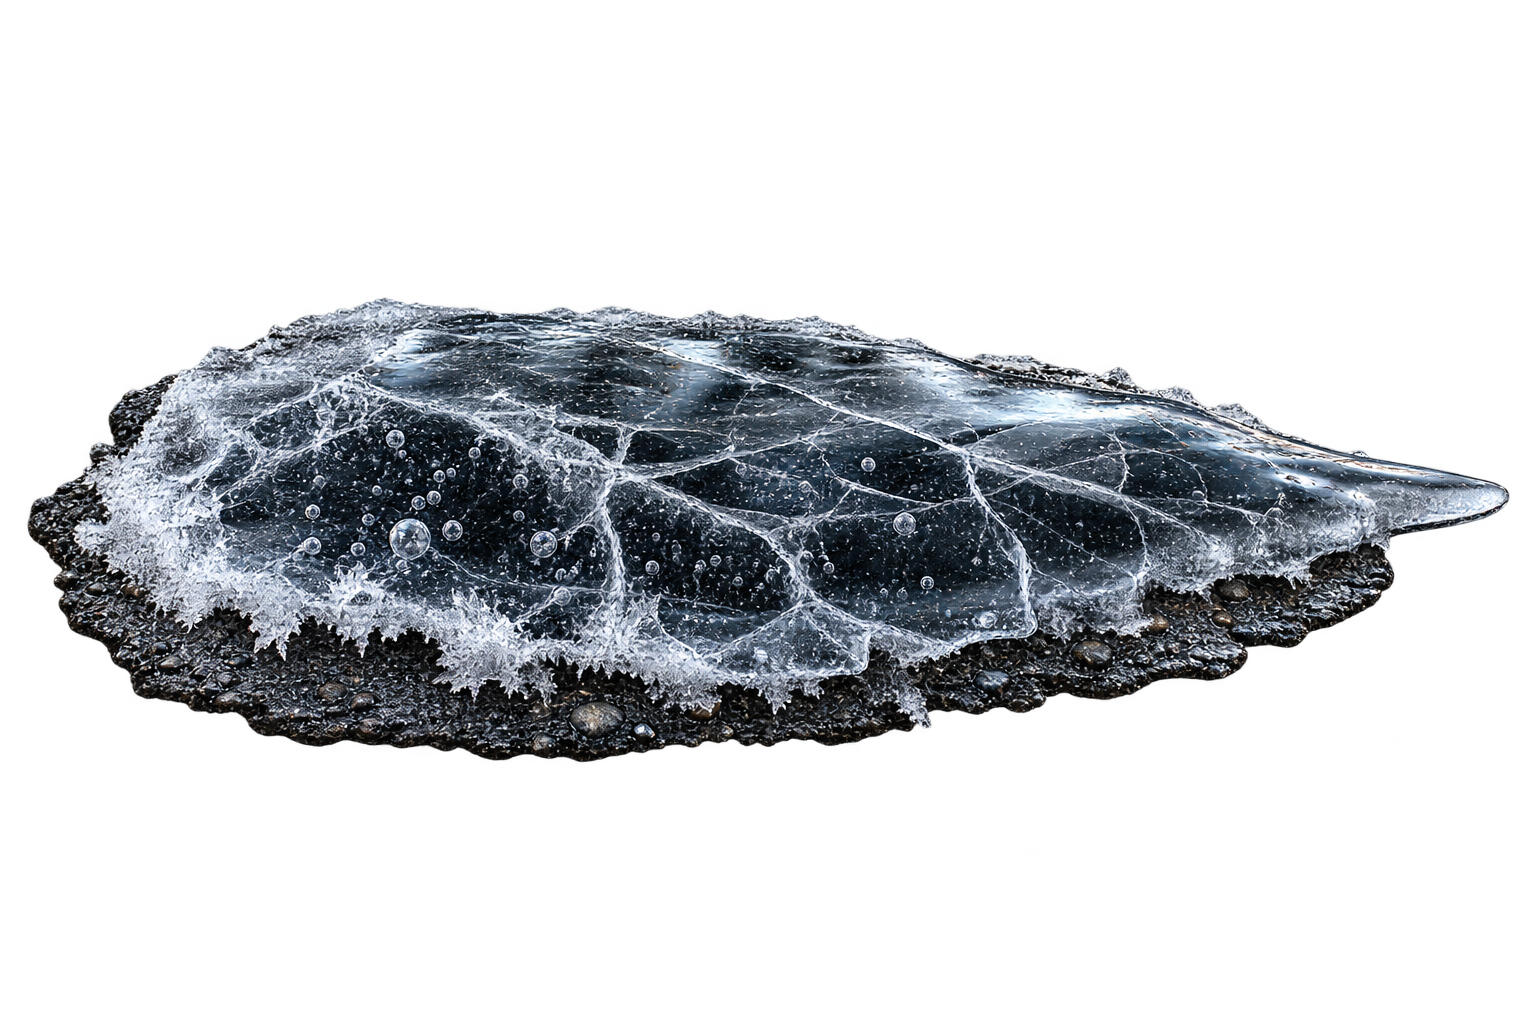
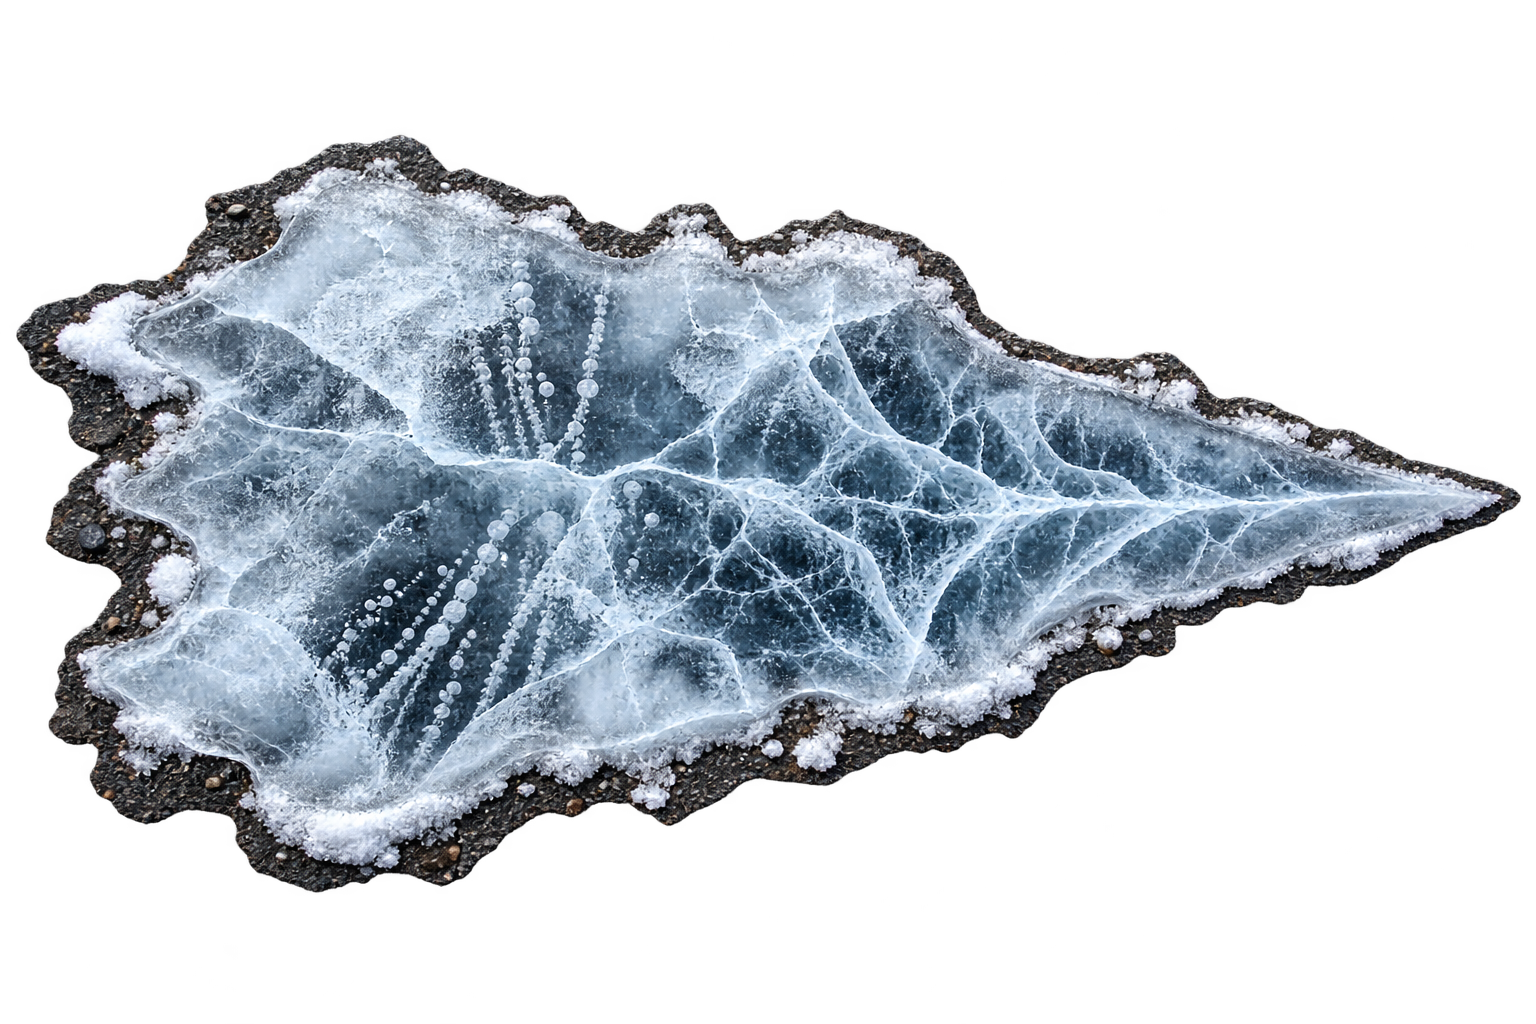
敵素材: 凍った水たまりの旧版を削除し、別案を正式な frozen-puddle.png にする

diff --git a/docs/monsters.md b/docs/monsters.md
@@ -117,7 +117,7 @@
 | M145 | 割れた酒瓶（割れたビール瓶） | 崩壊・落下 | 未定 | 未定 | 未定 | 未定 | 生成済み: `assets/enemies/broken-bottle.png`（口が割れた茶色いビール瓶・右向き・透過。2026-10-14生成、同日 kako-jun が採用） | #12 |
 | M146 | プロペラ | 回転する刃（風） | 未定 | 風 | 未定 | 未定 | 生成済み: `assets/enemies/propeller.png`（採否待ち。三枚羽根・透過） | art-direction.md、#26 |
 | M147 | 扇風機・換気扇の羽根 | 回転する刃（風） | 未定 | 風 | 未定 | 未定 | 生成済み: `assets/enemies/fan-blades.png`（採否待ち。右向き・透過） | 同上 |
-| M148 | 凍った水たまり | 凍った足元（氷） | 未定 | 氷 | 未定 | 未定 | 生成済み: `assets/enemies/frozen-puddle.png`（採否待ち。横長・透過）。別案 v2: `assets/enemies/frozen-puddle-v2.png`（採否待ち。ほぼ平面・白く曇った氷・ひびと気泡・縁に霜。v1 は盛り上がって凍った水たまりに見えにくいとの kako-jun 所見 2026-10-15） | 同上 |
+| M148 | 凍った水たまり | 凍った足元（氷） | 未定 | 氷 | 未定 | 未定 | 生成済み: `assets/enemies/frozen-puddle.png`（採否待ち。ほぼ平面・白く曇った氷・ひびと気泡・縁に霜。旧版は盛り上がって凍った水たまりに見えにくく不要とされ削除。kako-jun 2026-10-15） | 同上 |
 | M149 | 石油ストーブ | 火事の原因（火） | 未定 | 火 | 未定 | 未定 | 生成済み: `assets/enemies/kerosene-heater.png`（採否待ち。右向き・透過・火災は描かない） | 同上 |
 | M150 | ライター | 火事の原因（火） | 未定 | 火 | 未定 | 未定 | 生成済み: `assets/enemies/lighter.png`（採否待ち。炎が右上へ・透過・無人・ロゴなし） | 同上 |
 | M151 | 古いたこ足配線 | 火事の原因（火） | 未定 | 火 | 未定 | 未定 | 生成済み: `assets/enemies/octopus-wiring.png`（採否待ち。コードが右へ広がる・焦げた差込口・透過） | 同上 |
@@ -204,7 +204,7 @@
 | M145 | 2x1（横2倍） | `assets/enemies/broken-bottle.png` 640x199、縦横比 3.22 |
 | M146 | 1x1（普通） | `assets/enemies/propeller.png` 640x497、縦横比 1.29 |
 | M147 | 1x1（普通） | `assets/enemies/fan-blades.png` 640x621、縦横比 1.03 |
-| M148 | 2x1（横2倍） | `assets/enemies/frozen-puddle.png` 640x201、縦横比 3.18（v2 `frozen-puddle-v2.png` 640x323、縦横比 1.98 も 2x1） |
+| M148 | 2x1（横2倍） | `assets/enemies/frozen-puddle.png` 640x323、縦横比 1.98 |
 | M149 | 1x1（普通） | `assets/enemies/kerosene-heater.png` 640x589、縦横比 1.09 |
 | M150 | 1x1（普通） | `assets/enemies/lighter.png` 410x640、縦横比 0.64 |
 | M151 | 2x1（横2倍） | `assets/enemies/octopus-wiring.png` 640x337、縦横比 1.90 |
